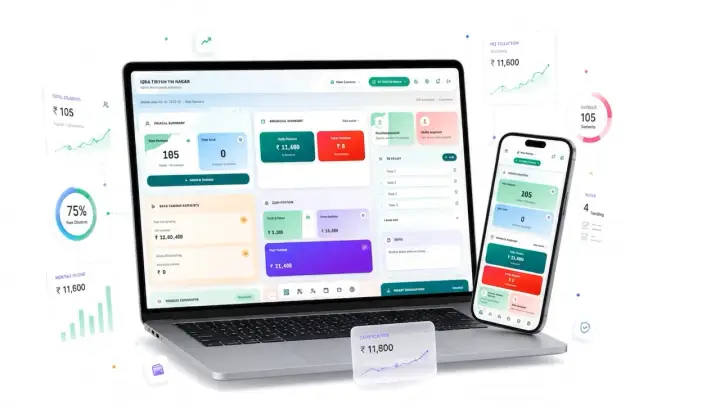
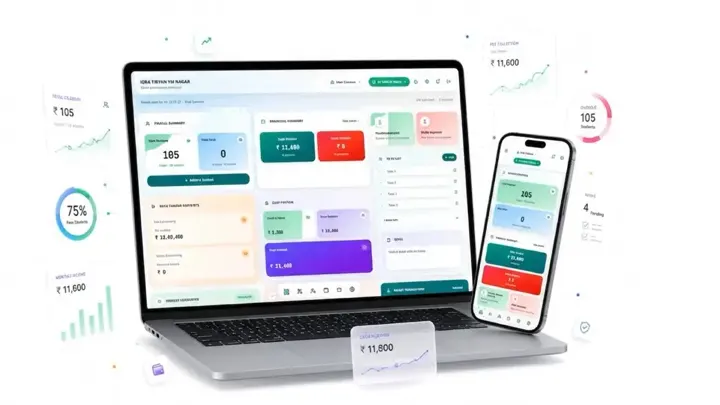
Trim remaining marketing PSI work: defer CSS, smaller images, fewer reflows.

diff --git a/src/components/marketing/sections/HowItWorks.tsx b/src/components/marketing/sections/HowItWorks.tsx
@@ -74,17 +74,35 @@ function ShowcaseStrip() {
   const [active, setActive] = useState(0);
   const activeRef = useRef(0);
   const rafRef = useRef(0);
+  const metricsRef = useRef({ scrollWidth: 0, clientWidth: 0, maxScroll: 0 });
+  const offsetsRef = useRef<number[]>([]);
   const total = showcase.items.length;
+
+  const measureScroller = useCallback(() => {
+    const el = scrollerRef.current;
+    if (!el) return;
+    const scrollWidth = el.scrollWidth;
+    const clientWidth = el.clientWidth;
+    metricsRef.current = {
+      scrollWidth,
+      clientWidth,
+      maxScroll: Math.max(0, scrollWidth - clientWidth),
+    };
+    offsetsRef.current = Array.from(el.querySelectorAll<HTMLElement>("[data-shot]")).map((card) =>
+      Math.max(0, card.offsetLeft - 20),
+    );
+  }, []);
 
   const syncEdges = useCallback(() => {
     const el = scrollerRef.current;
     if (!el) return;
-    const maxScroll = Math.max(0, el.scrollWidth - el.clientWidth);
-    const nextPrev = el.scrollLeft > 6;
-    const nextNext = el.scrollLeft < maxScroll - 6;
+    const { maxScroll } = metricsRef.current;
+    const scrollLeft = el.scrollLeft;
+    const nextPrev = scrollLeft > 6;
+    const nextNext = scrollLeft < maxScroll - 6;
     setCanPrev((prev) => (prev === nextPrev ? prev : nextPrev));
     setCanNext((prev) => (prev === nextNext ? prev : nextNext));
-    if (maxScroll > 0 && el.scrollLeft >= maxScroll - 12) {
+    if (maxScroll > 0 && scrollLeft >= maxScroll - 12) {
       const last = total - 1;
       if (activeRef.current !== last) {
         activeRef.current = last;
@@ -105,9 +123,18 @@ function ShowcaseStrip() {
       });
     };
 
+    measureScroller();
     syncEdges();
     el.addEventListener("scroll", onScroll, { passive: true });
-    window.addEventListener("resize", onScroll, { passive: true });
+
+    const ro =
+      typeof ResizeObserver !== "undefined"
+        ? new ResizeObserver(() => {
+            measureScroller();
+            syncEdges();
+          })
+        : null;
+    ro?.observe(el);
 
     const cards = Array.from(el.querySelectorAll<HTMLElement>("[data-shot]"));
     const io =
@@ -135,27 +162,28 @@ function ShowcaseStrip() {
 
     return () => {
       el.removeEventListener("scroll", onScroll);
-      window.removeEventListener("resize", onScroll);
+      ro?.disconnect();
       if (rafRef.current) window.cancelAnimationFrame(rafRef.current);
       io?.disconnect();
     };
-  }, [syncEdges]);
+  }, [measureScroller, syncEdges]);
 
   const scrollToIndex = useCallback(
     (index: number) => {
       const el = scrollerRef.current;
       if (!el) return;
-      const card = el.querySelector<HTMLElement>(`[data-shot][data-index="${index}"]`);
-      if (!card) return;
-      // offsetLeft avoids getBoundingClientRect during interaction.
+      const left = offsetsRef.current[index];
+      if (typeof left !== "number") {
+        measureScroller();
+      }
       el.scrollTo({
-        left: Math.max(0, card.offsetLeft - 20),
+        left: offsetsRef.current[index] ?? 0,
         behavior: reduce ? "auto" : "smooth",
       });
       activeRef.current = index;
       setActive(index);
     },
-    [reduce],
+    [measureScroller, reduce],
   );
 
   const scrollByCard = (dir: -1 | 1) => {

diff --git a/index.html b/index.html
@@ -46,7 +46,7 @@
         if (!marketing) document.documentElement.classList.add("no-boot");
       })();
     </script>
-    <link rel="preload" as="image" href="/home/explode-start-720.webp" type="image/webp" fetchpriority="high" />
+    <link rel="preload" as="image" href="/home/explode-start-640.webp" type="image/webp" fetchpriority="high" />
     <link rel="preconnect" href="https://api.feezo.app" crossorigin />
     <link rel="dns-prefetch" href="https://fonts.googleapis.com" />
     <link rel="dns-prefetch" href="https://fonts.gstatic.com" />
@@ -68,9 +68,9 @@
         }
         function arm() {
           if ("requestIdleCallback" in window) {
-            requestIdleCallback(loadFonts, { timeout: 2500 });
+            requestIdleCallback(loadFonts, { timeout: 8000 });
           } else {
-            setTimeout(loadFonts, 1);
+            setTimeout(loadFonts, 4000);
           }
         }
         if (document.readyState === "complete") arm();
@@ -99,7 +99,7 @@
             manifest.href = "/manifest.webmanifest";
             document.head.appendChild(manifest);
           }
-        }, 0);
+        }, 4000);
         afterLoad(function () {
           window.dataLayer = window.dataLayer || [];
           function gtag() {
@@ -120,9 +120,9 @@
       <div class="boot-inner">
         <h1>Welcome To<br /><span>Feezo</span></h1>
         <img
-          src="/home/explode-start-720.webp"
-          width="720"
-          height="405"
+          src="/home/explode-start-640.webp"
+          width="640"
+          height="360"
           alt="Feezo tenant dashboard with income, expenses, and cash position"
           fetchpriority="high"
           loading="eager"

diff --git a/vite.config.ts b/vite.config.ts
@@ -31,6 +31,26 @@ function appVersionPlugin(buildId: string): Plugin {
   };
 }
 
+/**
+ * Keep Vite CSS off the render-blocking critical path. Boot-shell styles in
+ * index.html cover first paint; the full sheet applies as soon as it loads.
+ */
+function deferStylesheetPlugin(): Plugin {
+  return {
+    name: "feezo-defer-stylesheet",
+    apply: "build",
+    enforce: "post",
+    transformIndexHtml(html) {
+      return html.replace(
+        /<link([^>]*\s)rel="stylesheet"([^>]*?)href="([^"]+\.css)"([^>]*)>/g,
+        (_match, before, mid, href, after) =>
+          `<link${before}rel="preload" as="style"${mid}href="${href}"${after} onload="this.onload=null;this.rel='stylesheet'">` +
+          `<noscript><link rel="stylesheet" href="${href}"></noscript>`,
+      );
+    },
+  };
+}
+
 
 export default defineConfig(({ mode }) => {
   const env = loadEnv(mode, process.cwd(), "");
@@ -89,6 +109,7 @@ export default defineConfig(({ mode }) => {
       tsConfigPaths({ projects: ["./tsconfig.json"] }),
       viteReact(),
       appVersionPlugin(buildId),
+      deferStylesheetPlugin(),
       VitePWA({
         registerType: "prompt",
         includeAssets: ["favicon.svg", "icons/**/*"],

diff --git a/src/components/marketing/HeroShowcase.tsx b/src/components/marketing/HeroShowcase.tsx
@@ -5,6 +5,7 @@ import { easeOutExpo } from "@/components/marketing/motion";
 
 const VIDEO_SRC = "/explode_video.mp4";
 const POSTER_START = "/home/explode-start.webp";
+const POSTER_START_MID = "/home/explode-start-640.webp";
 const POSTER_START_MOBILE = "/home/explode-start-720.webp";
 
 /** Bump when the video file changes so stale copies are evicted. */
@@ -347,12 +348,12 @@ export function HeroShowcase({ alt, startDelayMs = 700 }: { alt: string; startDe
       />
       <div className="absolute inset-0" style={EDGE_FEATHER}>
         <img
-          src={POSTER_START_MOBILE}
-          srcSet={`${POSTER_START_MOBILE} 720w, ${POSTER_START} 960w`}
-          sizes="(max-width: 768px) 100vw, 960px"
+          src={POSTER_START_MID}
+          srcSet={`${POSTER_START_MID} 640w, ${POSTER_START_MOBILE} 720w, ${POSTER_START} 960w`}
+          sizes="(max-width: 768px) 100vw, min(100vw, 720px)"
           alt={alt}
-          width={720}
-          height={405}
+          width={640}
+          height={360}
           loading="eager"
           decoding="async"
           fetchPriority="high"

diff --git a/src/components/marketing/sections/DigitalTransformation.tsx b/src/components/marketing/sections/DigitalTransformation.tsx
@@ -119,11 +119,12 @@ export function DigitalTransformation() {
                 transition={{ duration: 0.75, ease: easeOutExpo, delay: 0.2 }}
               >
                 <img
-                  src="/digital/2.webp"
+                  src="/digital/2-360.webp"
+                  srcSet="/digital/2-360.webp 360w, /digital/2.webp 540w"
                   alt={FOLLOW_UP.imageAlt}
-                  width={540}
-                  height={735}
-                  sizes="(max-width: 1024px) 280px, 360px"
+                  width={360}
+                  height={490}
+                  sizes="(max-width: 1024px) 270px, 360px"
                   className="h-full w-auto max-h-full max-w-full object-contain object-bottom drop-shadow-[0_14px_32px_rgba(0,0,0,0.14)] lg:object-right-bottom"
                   loading="lazy"
                   decoding="async"

diff --git a/src/lib/locale/LocaleProvider.tsx b/src/lib/locale/LocaleProvider.tsx
@@ -94,7 +94,11 @@ export function LocaleProvider({ children }: { children: ReactNode }) {
   const [currency, setCurrencyState] = useState<CurrencyCode>(initial.currency);
   const [country, setCountryState] = useState<string>(initial.country);
   const [isAuto, setIsAuto] = useState<boolean>(!initial.manual);
-  const networkReady = useAfterFirstPaint();
+  // Marketing home keeps geo/FX off the PSI critical path much longer.
+  const marketingHome =
+    typeof window !== "undefined" &&
+    Boolean((window as Window & { __feezoIsMarketingHome?: boolean }).__feezoIsMarketingHome);
+  const networkReady = useAfterFirstPaint(marketingHome ? 12_000 : 2500);
 
   const detectQuery = useQuery({
     queryKey: ["locale", "detect"],
